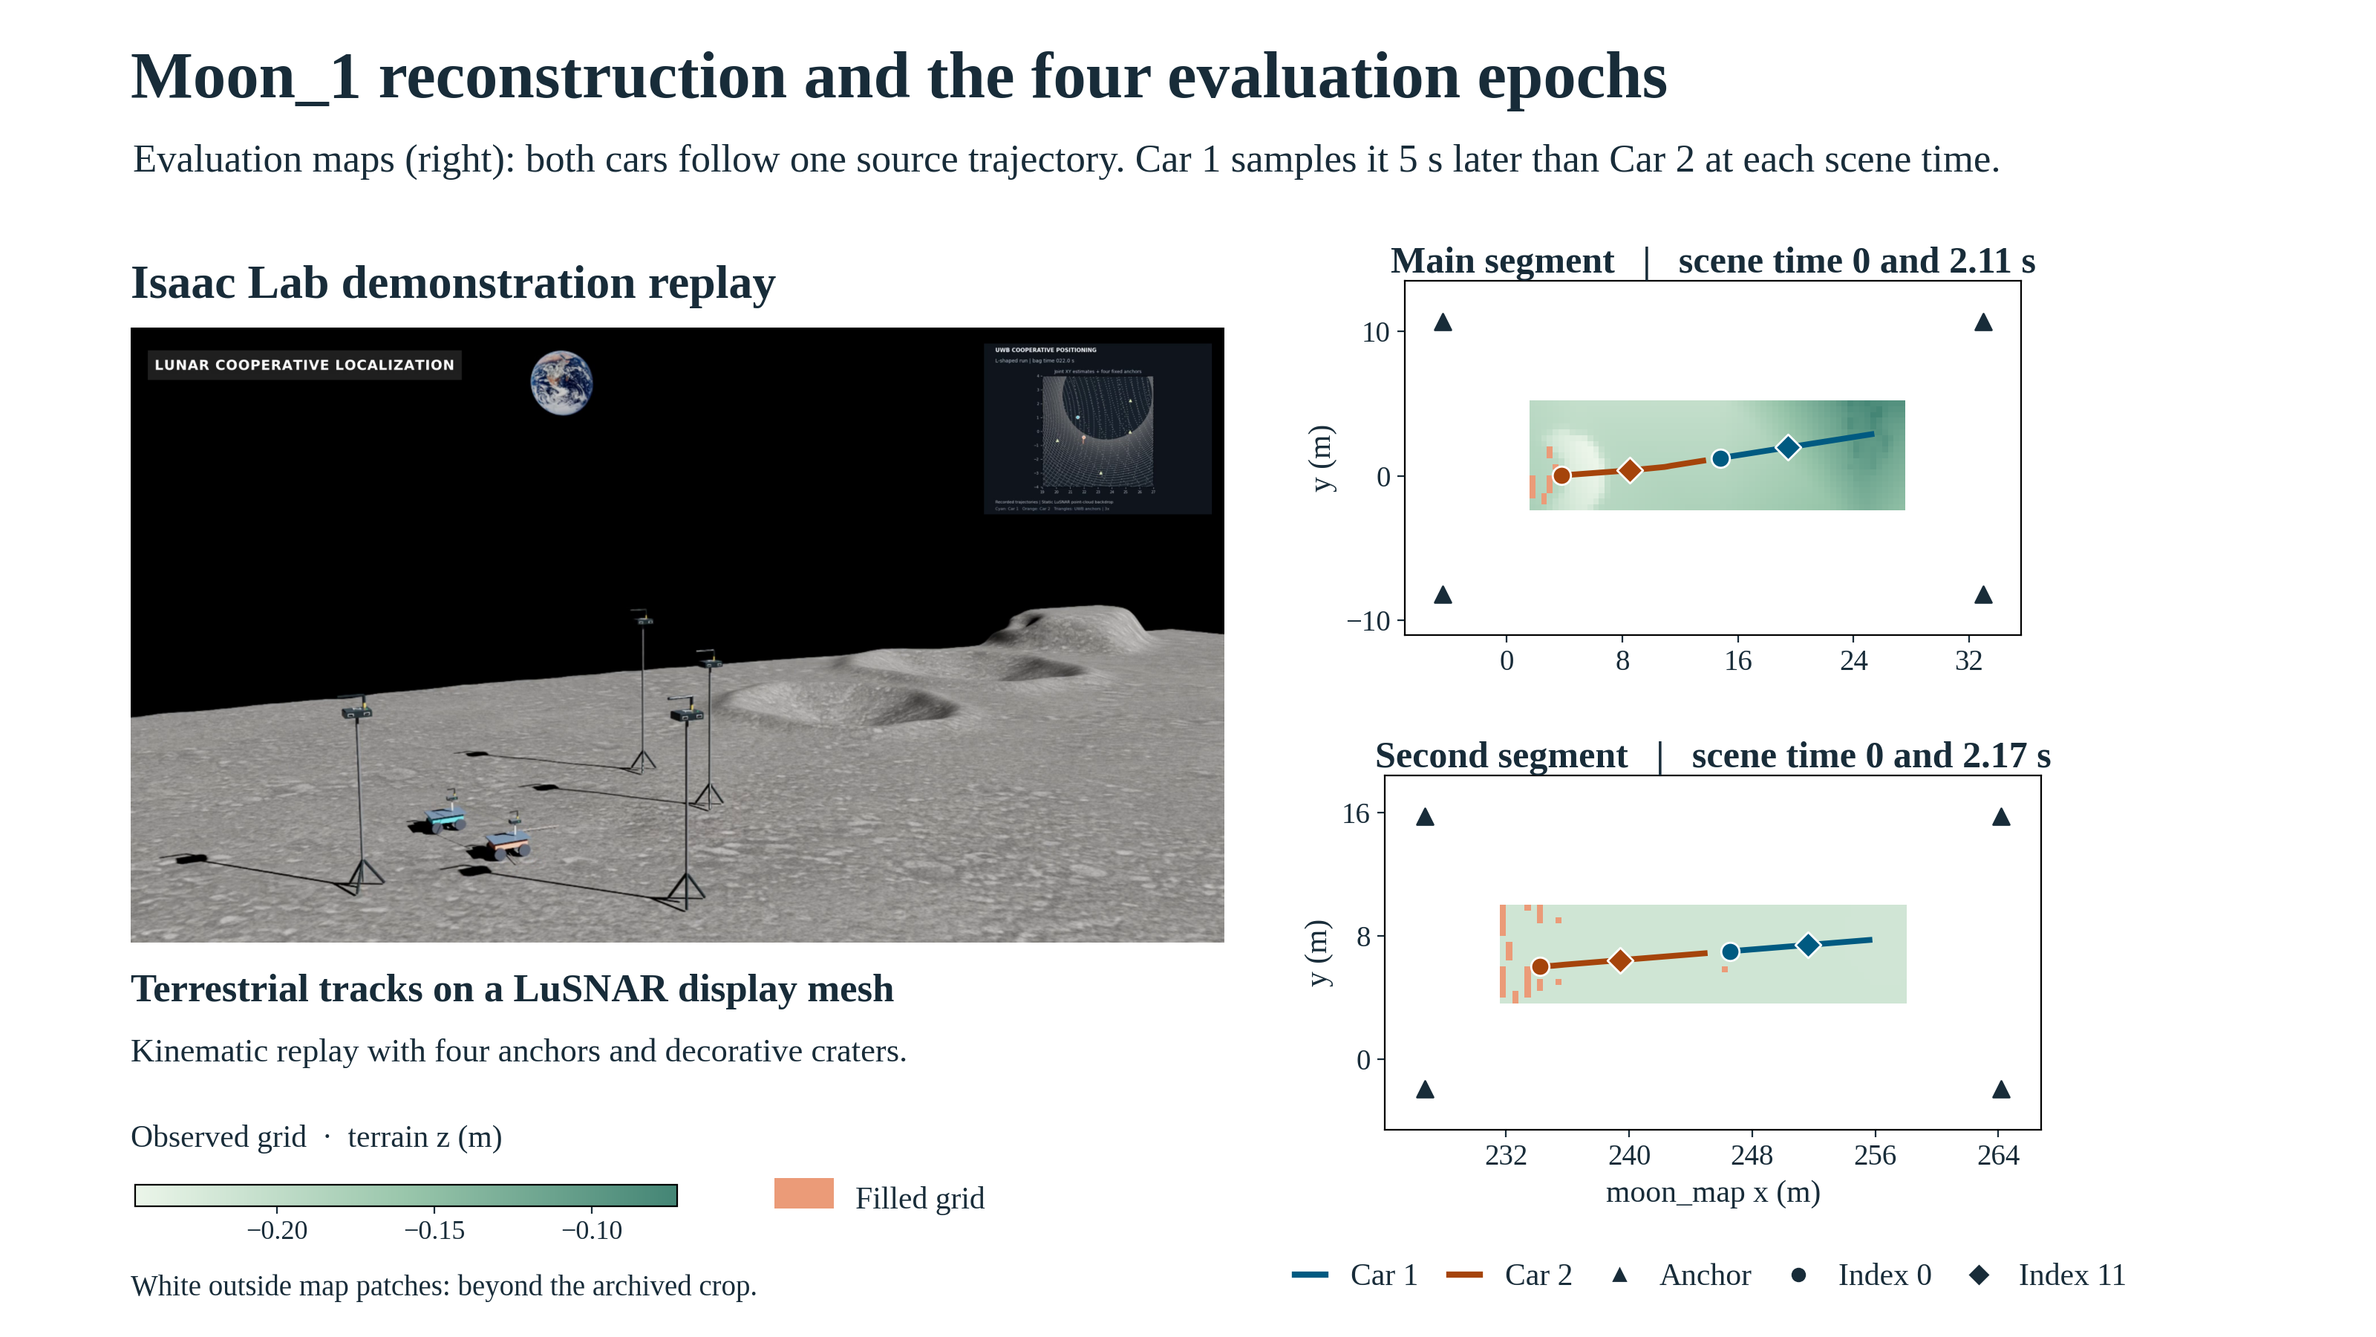
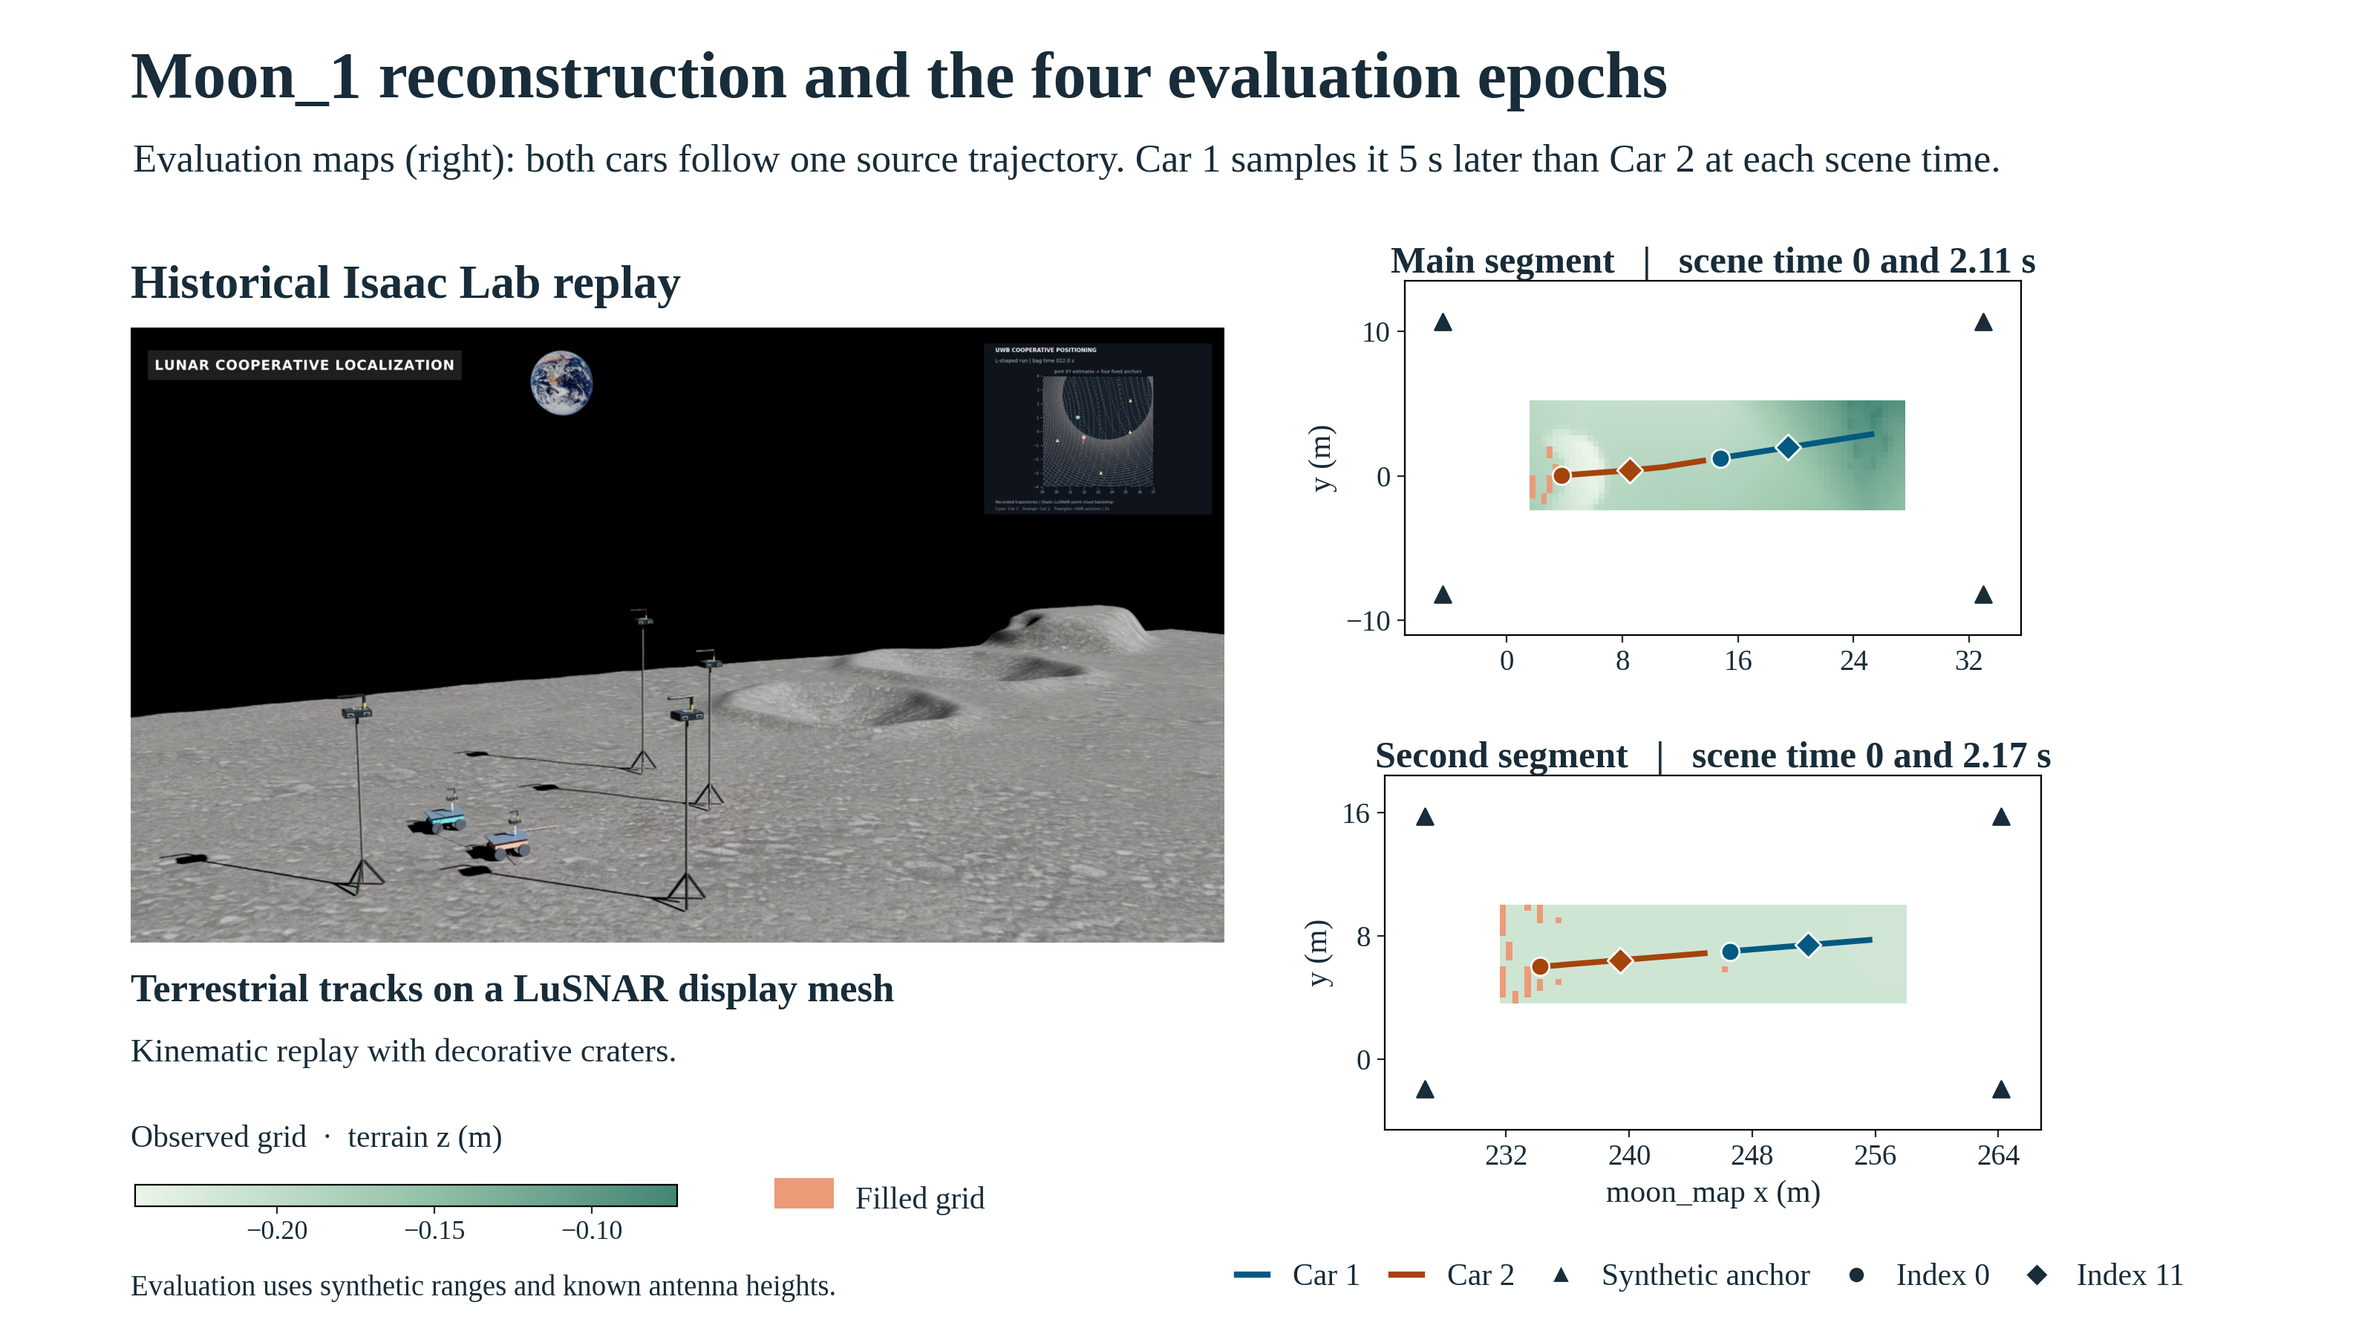
Deliver Chapter 7 Moon_1 results and verified figure captions

diff --git a/tools/lunar_end_to_end/defense_figures/render.py b/tools/lunar_end_to_end/defense_figures/render.py
@@ -68,7 +68,7 @@ def route_map():
         "Moon_1 reconstruction and the four evaluation epochs",
         "Evaluation maps (right): both cars follow one source trajectory. Car 1 samples it 5 s later than Car 2 at each scene time.",
     )
-    fig.text(0.055, 0.777, "Isaac Lab demonstration replay", fontsize=23, weight="bold")
+    fig.text(0.055, 0.777, "Historical Isaac Lab replay", fontsize=23, weight="bold")
     src = OUT / "isaac_replay_7s.png"
     im = Image.open(src)
     assert im.size == (1920, 1080)
@@ -85,7 +85,7 @@ def route_map():
     fig.text(
         0.055,
         0.206,
-        "Kinematic replay with four anchors and decorative craters.",
+        "Kinematic replay with decorative craters.",
         fontsize=16,
         linespacing=1.4,
     )
@@ -155,7 +155,7 @@ def route_map():
     ]
     handles.extend(
         Line2D([], [], marker=m, ls="", color=INK, label=l)
-        for m, l in [("^", "Anchor"), ("o", "Index 0"), ("D", "Index 11")]
+        for m, l in [("^", "Synthetic anchor"), ("o", "Index 0"), ("D", "Index 11")]
     )
     fig.legend(
         handles=handles,
@@ -183,7 +183,7 @@ def route_map():
     fig.text(
         0.055,
         0.031,
-        "White outside map patches: beyond the archived crop.",
+        "Evaluation uses synthetic ranges and known antenna heights.",
         fontsize=14,
     )
     export(fig, "01_scene")

diff --git a/docs/research/lunar_end_to_end/defense_figures/README.md b/docs/research/lunar_end_to_end/defense_figures/README.md
@@ -1,5 +1,7 @@
 # Moon_1 中期答辩配图
 
+[第 7 章英文正文与配图](../Chapter7_results.md)
+
 正文按图 1、图 2 的顺序讲。图 1 建立场景与实验位置，图 2 给出一个可独立核算的几何证明。图 3 用于备用页，回答改变测距假设后的结果。数值与路线资产固定于提交 `c7d53da2bb989f73514a6ce540813c379d698897` ，场景介绍另用本地归档视频。数值来自已验收的 #151。PNG 为 3200 × 1800，PDF 保留文字与绘图线条。生成环境使用 Liberation Serif，脚本在有 Times New Roman 的环境中优先使用该字体。
 
 在仓库根目录运行以下命令。依赖为 Python 3.10+、NumPy、Matplotlib 和 Pillow。三个入口都只读归档数据。
@@ -8,9 +10,9 @@
 
 [高清 PNG](01_scene.png) · [PDF](01_scene.pdf)
 
-**English caption.** Left, a frame at 7.00 s from the October 30 Isaac Lab demonstration video shows terrestrial rover tracks replayed on a LuSNAR-derived display mesh. The craters outside the cooperative area are decorative. Right, plan views drawn from the two evaluation segments show the antenna tracks and synthetic anchors in the local moon_map frame. Circles and diamonds identify indices 0 and 11 on each track. At a common scene time, Car 1 uses a source pose five seconds later than Car 2. Green encodes gridded terrain elevation at observed cells, salmon marks filled cells, and white lies outside the archived crop.
+**English caption.** Left, a frame at 7.00 s from the October 30 Isaac Lab demonstration video shows terrestrial rover tracks replayed on a LuSNAR-derived display mesh. The craters outside the cooperative area are decorative. Right, plan views drawn from the two evaluation segments show the antenna tracks and synthetic anchors in the local moon_map frame. Circles and diamonds identify indices 0 and 11 on each track. Both cars follow the same Moon_1 source trajectory, with Car 1 sampled 5 s later than Car 2 at each scene time. The evaluation uses synthetic slant ranges and known antenna heights. Green encodes gridded terrain elevation at observed cells, salmon marks filled cells, and white lies outside the archived crop.
 
-**中文讲解（约 30 秒）**　左图是后期 Isaac 演示视频第七秒。团队用 LuSNAR 数据生成月面网格，在上面回放地面双车实验；远处的环形山是展示素材。右边两幅地图给出本次实验的实际位置。蓝、橙两车取自同一条源轨迹，同一场景时刻，一号车取晚五秒的源位置。圆点和菱形是每段的第 0 和第 11 个索引；三角形是合成锚点，橙粉色网格是地形填补区。
+**中文讲解（约 30 秒）**　左图取自 10 月 30 日的 Isaac 历史演示视频第七秒。团队用 LuSNAR 数据生成月面网格，在上面回放地面双车实验；远处的环形山是展示素材。右边两幅地图给出本次实验的实际位置。蓝、橙两车取自同一条源轨迹，同一场景时刻，一号车取晚五秒的源位置。圆点和菱形是每段的第 0 和第 11 个索引；三角形是合成锚点，橙粉色网格是地形填补区。评价使用合成的锚车和车间斜距，并给定两车天线高度。
 
[1 lines of base64/hex data omitted]
 
@@ -36,9 +38,9 @@ python3 tools/lunar_end_to_end/defense_figures/render.py witness
 
 [高清 PNG](03_assumptions.png) · [PDF](03_assumptions.pdf)
 
-**English caption.** Horizontal outer radii are measured about each vehicle’s published antenna position. The first two columns retain the original observations and 4 cm noise scale. Fixing peer bias to zero changes seven radii by zero at the displayed precision and reduces the eighth by 0.34 cm. Halving the assumed noise scale on the old observations yields two sub-10 cm radii for Car 2, but excludes the true joint position at both segment starts. With new observations generated at the matched 2 cm scale and new position fixes, the joint truth is feasible at all four epochs and the eight radii range from 10.68 to 16.43 cm. These four epochs measure state-time geometry only.
+**English caption.** Horizontal outer radii are measured about each vehicle’s published antenna position. The first two columns retain the original observations and 4 cm noise scale. Fixing peer bias to zero changes seven radii by zero at the displayed precision and reduces the eighth (Car 2 at the middle epoch of the second segment) by approximately 0.35 cm. Halving the assumed noise scale on the old observations yields two sub-10 cm radii for Car 2, but excludes the true joint position at both segment starts. With new observations generated at the matched 2 cm scale and new position fixes, the joint truth is feasible at all four epochs and the eight radii range from 10.68 to 16.43 cm. These four epochs measure state-time geometry only.
 
-**中文讲解（约 30 秒）**　从左往右看，车间偏差即使完全已知，八个外半径几乎没有变化。把同一批观测的噪声假设收紧，二号车两次看起来进了十厘米，但这两个时刻连双车真值都被模型排除了。最后一列用更小的噪声重新生成观测，再重新定位，真值四次都相容，八个外半径仍都超过十厘米。这组数据回答的是四个时刻的空间范围，不能推算车辆实时可用率。
+**中文讲解（约 30 秒）**　从左往右看，车间偏差即使完全已知，七个外半径在表中精度下都没变，只有第二段中间历元的二号车缩小约 0.35 厘米。把同一批观测的噪声假设收紧，二号车两次看起来进了十厘米，但这两个时刻连双车真值都被模型排除了。最后一列用更小的噪声重新生成观测，再重新定位，真值四次都相容，八个外半径仍都超过十厘米。这组数据回答的是四个时刻的空间范围，不能推算车辆实时可用率。
 
 [attribution.csv](../round2_radius/attribution.csv) 的 `baseline_cm`、`zero_outer_cm`、`tight_outer_cm` 对应前三个半径列，`tight_truth` 给出联合真值相容性。[matched.csv](../round2_radius/matched.csv) 的 `outer_cm`、`true_feasible` 给出第四列及其相容性。按 `case,car` 对齐，p、s 分别表示一、二号车。匹配组沿用标准化噪声抽样。两种 2 cm 条件均为仿真假设，四个历元来自同一源序列。
 

diff --git a/docs/research/lunar_end_to_end/Chapter7_results.md b/docs/research/lunar_end_to_end/Chapter7_results.md
@@ -1,0 +1,39 @@
+# Chapter 7. Cooperative localization on reconstructed lunar terrain
+
+### Terrain and route geometry
+
+We simulated cooperative ranging on two short stretches of terrain reconstructed from the synthetic LiDAR point clouds of the LuSNAR Moon_1 sequence. Both stretches passed the same checks for point-cloud support and local height consistency along the vehicle footprints. Car 2 followed the source trajectory from 5.44 to 9.86 s on the main segment and from 109.66 to 114.00 s on the second segment. At each scene time, Car 1 occupied the pose 5 s farther along the same trajectory. The resulting antenna separations were 10.81–11.79 m and 10.75–12.55 m, respectively. Four synthetic anchors supplied eight simulated anchor-to-vehicle slant ranges per epoch, and a ninth range linked the two vehicles. The estimator used known terrain-derived antenna heights to estimate horizontal positions. Figure 1 locates both evaluation routes alongside a historical Isaac Lab replay. [Main route](continuous/ROUTE.json) · [Second route](replication/ROUTE.json) · [Route geometry and protocol](replication/REPORT.md)
+
+### Effect of modelling a changing inter-vehicle range bias
+
+For each vehicle, we compared the trajectory root-mean-square position error (RMSE) of a constant peer-bias model (M2) with that of a model that also estimates a linear change in peer bias (M3). We report the mean paired reduction, M2 minus M3, over all 10 finite seed pairs per condition and segment. With a 0.30 m ramp in the peer range, Car 1 and Car 2 gained **6.070 and 5.107 mm** on the main segment and **5.631 and 4.918 mm** on the second. On each segment, 10 of 10 seeds improved for Car 1 and 9 of 10 for Car 2. Adding a 0.15 m error to one Car 2 motion increment during the ramp gave respective gains of 6.180 and 4.217 mm on the main segment and 5.747 and 3.983 mm on the second. With zero injected peer bias, the normal-condition reductions were only +0.073 and +0.014 mm on the main segment and +0.170 and −0.100 mm on the second. With the motion error alone, they were +0.070 and +0.003 mm, and +0.163 and −0.105 mm, respectively. The negative values indicate a small increase in Car 2 error. All-finite means include one pair that failed numerical acceptance in the main segment’s combined condition and one in the second segment’s motion-only condition. [Original main-segment pairs](continuous/PAIRS.csv) · [Both segments, per-seed pairs and acceptance states](replication/PAIRS.csv)
+
+### What the 10 cm protection requirement asks of a position fix
+
+RMSE measures how closely an estimate follows the reference trajectory. A 10 cm horizontal protection disk must also cover every Car 1 position compatible with the observations under the stated model. At the first main-segment epoch, even with peer bias fixed at zero and antenna heights known, two joint positions for the vehicles satisfy the nine-range test at a 4 cm noise scale. Their weighted sums of squared residuals are at most 19.961 and 21.975, both below the threshold of 26. Projecting the two solutions onto Car 1 gives points approximately **31.04 cm apart** (Figure 2). By the triangle inequality, any disk covering both needs a radius of at least half their separation, giving a conservative lower bound of **15.51 cm** regardless of the center. A 10 cm disk therefore fails at this epoch even though the trend model improved mean RMSE in the ramp trials. The radius analysis covers four selected state times, at indices 0 and 11 on each segment. Vehicle-level online recovery rates and generalization to new routes remain questions for future work. [Joint positions](round2_radius/witnesses/main_start_normal.json) · [Exact numerical check](defense_figures/witness_check.json) · [Four-epoch radius comparison](round2_radius/attribution.csv)
+
+## Figures and source data
+
+### Figure 1. Evaluation routes and historical scene replay (main text)
+
+Left, a frame at 7.00 s from the October 30 Isaac Lab demonstration video shows terrestrial rover tracks replayed on a LuSNAR-derived display mesh. The craters outside the cooperative area are decorative. Right, plan views drawn from the two evaluation segments show the antenna tracks and synthetic anchors in the local moon_map frame. Circles and diamonds identify indices 0 and 11 on each track. Both cars follow the same Moon_1 source trajectory, with Car 1 sampled 5 s later than Car 2 at each scene time. The evaluation uses synthetic slant ranges and known antenna heights. Green encodes gridded terrain elevation at observed cells, salmon marks filled cells, and white lies outside the archived crop.
+
+[PNG](defense_figures/01_scene.png) · [PDF](defense_figures/01_scene.pdf)
+
+**Sources**　[Archived replay frame](defense_figures/isaac_replay_7s.png) · Main segment [route and anchors](continuous/ROUTE.json), [terrain grid](continuous/terrain.npz) · Second segment [route and anchors](replication/ROUTE.json), [terrain grid](replication/terrain.npz)
+
+### Figure 2. Minimum enclosing radius for two feasible positions (main text)
+
+At the first main-segment epoch, two joint four-dimensional antenna positions satisfy the P4 threshold of 26 with known heights, zero peer bias and a 4 cm range standard deviation. The weighted sums of squared residuals have upper bounds of 19.961 and 21.975. The Car 1 projections are 31.04 cm apart (rounded). By the triangle inequality, every disk containing both has radius at least half their separation, exceeding 15.51 cm. The solid circle attains this bound for the pair. The dashed circle has radius 10 cm. Both are drawn about the pair midpoint.
+
+[PNG](defense_figures/02_witness.png) · [PDF](defense_figures/02_witness.pdf)
+
+**Sources**　[Witness coordinates](round2_radius/witnesses/main_start_normal.json) · [Nine-range input](round2_radius/inputs/zero/main_start_normal.json) · [Certified leaf boxes](radius_resolution/results/main_start_normal/fine_matched.json.gz)
+
+### Figure 3. Sensitivity to ranging assumptions (backup for questions on noise)
+
+Horizontal outer radii are measured about each vehicle’s published antenna position. The first two columns retain the original observations and 4 cm noise scale. Fixing peer bias to zero changes seven radii by zero at the displayed precision and reduces the eighth (Car 2 at the middle epoch of the second segment) by approximately 0.35 cm. Halving the assumed noise scale on the old observations yields two sub-10 cm radii for Car 2, but excludes the true joint position at both segment starts. With new observations generated at the matched 2 cm scale and new position fixes, the joint truth is feasible at all four epochs and the eight radii range from 10.68 to 16.43 cm. These four epochs measure state-time geometry only.
+
+[PNG](defense_figures/03_assumptions.png) · [PDF](defense_figures/03_assumptions.pdf)
+
+**Sources**　[Baseline, known-zero and assumed 2 cm columns](round2_radius/attribution.csv) · [Matched 2 cm column](round2_radius/matched.csv)
